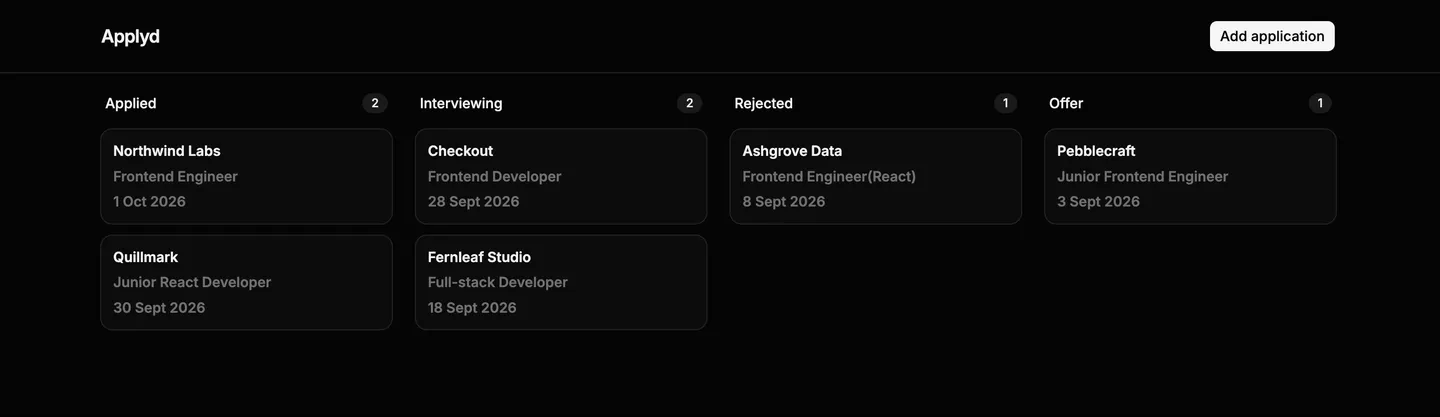
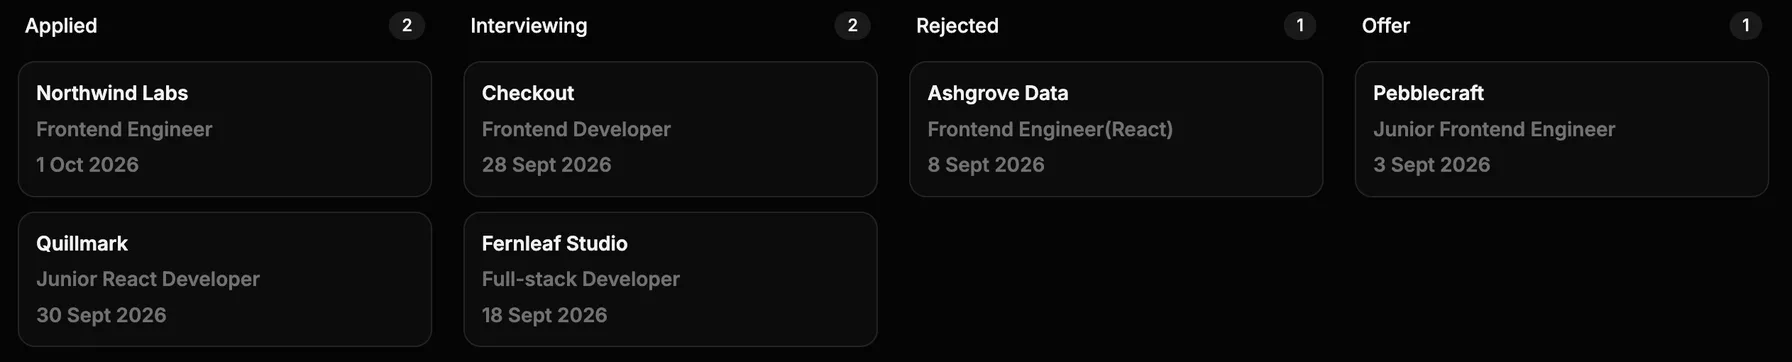
Sharpen the Applyd screenshots and add click-to-enlarge
Re-crops each figure from full-resolution PNG sources (kept out of git)
and exports them at 2x display size. Figures now stack, since the
detail crop is unreadable at half width and the form crop is portrait.
Each figure opens its uncropped screenshot in a native modal dialog.

diff --git a/src/components/ProjectEntry.tsx b/src/components/ProjectEntry.tsx
@@ -1,3 +1,4 @@
+import { useRef } from 'react'
 import type { Figure, Project } from '../content'
 import ArchitectureDiagram from './ArchitectureDiagram'
 import MarginNote from './MarginNote'
@@ -14,7 +15,6 @@ const linkStyle =
 function ProjectEntry({ project }: { project: Project }) {
   const headingId = `${project.id}-heading`
   const figures = project.figures ?? []
-  const [leadFigure, ...restFigures] = figures
   // Anything drawn above the notes (screenshots or the terminal) for the margin note to point at.
   const hasFigureAbove = figures.length > 0 || project.terminal !== undefined
 
@@ -36,16 +36,11 @@ function ProjectEntry({ project }: { project: Project }) {
         <p className="mt-5 max-w-[65ch] text-lg leading-relaxed text-ink">{project.summary}</p>
       </header>
 
-      {leadFigure && (
-        <div className="mt-8 flex flex-col gap-6">
-          <ProjectFigure figure={leadFigure} number={1} />
-          {restFigures.length > 0 && (
-            <div className="grid gap-6 md:grid-cols-2">
-              {restFigures.map((figure, i) => (
-                <ProjectFigure key={figure.src} figure={figure} number={i + 2} />
-              ))}
-            </div>
-          )}
+      {figures.length > 0 && (
+        <div className="mt-8 flex flex-col gap-8">
+          {figures.map((figure, i) => (
+            <ProjectFigure key={figure.src} figure={figure} number={i + 1} />
+          ))}
         </div>
       )}
 
@@ -107,21 +102,68 @@ function ProjectEntry({ project }: { project: Project }) {
   )
 }
 
+/** A screenshot that opens its uncropped original in a native modal <dialog>. The browser
+ *  handles Esc, focus trapping, and returning focus to the button on close. */
 function ProjectFigure({ figure, number }: { figure: Figure; number: number }) {
+  const dialogRef = useRef<HTMLDialogElement>(null)
+  // A portrait crop (the form) at full column width would be taller than the screen.
+  const isPortrait = figure.height > figure.width
+
   return (
-    <figure>
-      <img
-        src={figure.src}
-        width={figure.width}
-        height={figure.height}
-        alt={figure.alt}
-        loading="lazy"
-        decoding="async"
-        className="h-auto w-full border border-ink/15"
-      />
+    <figure className={isPortrait ? 'max-w-sm' : undefined}>
+      <button
+        type="button"
+        aria-haspopup="dialog"
+        onClick={() => dialogRef.current?.showModal()}
+        className={
+          'block w-full cursor-zoom-in border border-ink/15 transition-colors hover:border-ink/40 ' +
+          'focus-visible:outline-2 focus-visible:outline-offset-2 focus-visible:outline-accent'
+        }
+      >
+        <span className="sr-only">Enlarge: </span>
+        <img
+          src={figure.src}
+          width={figure.width}
+          height={figure.height}
+          alt={figure.alt}
+          loading="lazy"
+          decoding="async"
+          className="h-auto w-full"
+        />
+      </button>
       <figcaption className="mt-2 font-mono text-xs text-ink-muted">
         Fig. {number} — {figure.caption}
+        <span aria-hidden="true"> · Click to enlarge</span>
       </figcaption>
+
+      <dialog
+        ref={dialogRef}
+        aria-label={`Fig. ${number} — ${figure.caption}`}
+        // A click on the dialog element itself (not its content) is a click on the backdrop.
+        onClick={(event) => event.target === event.currentTarget && event.currentTarget.close()}
+        className="figure-dialog m-auto max-w-[min(94vw,1440px)] bg-paper p-3 backdrop:bg-ink/70 sm:p-4"
+      >
+        <form method="dialog" className="mb-3 flex justify-end">
+          <button
+            className={
+              'py-2 font-mono text-xs text-ink underline decoration-accent-muted underline-offset-4 ' +
+              'hover:decoration-accent focus-visible:outline-2 focus-visible:outline-accent'
+            }
+          >
+            Close
+          </button>
+        </form>
+        {/* Lazy inside a closed dialog: the full image only downloads on first open. */}
+        <img
+          src={figure.full.src}
+          width={figure.full.width}
+          height={figure.full.height}
+          alt={figure.alt}
+          loading="lazy"
+          decoding="async"
+          className="h-auto max-h-[80vh] w-auto max-w-full border border-ink/15"
+        />
+      </dialog>
     </figure>
   )
 }

diff --git a/src/content.ts b/src/content.ts
@@ -92,6 +92,8 @@ export type Figure = {
   alt: string
   /** shown after an auto-numbered "Fig. n —" */
   caption: string
+  /** the uncropped screenshot, opened by clicking the figure */
+  full: { src: string; width: number; height: number }
 }
 
 export type ArchitectureNode = {
@@ -192,30 +194,33 @@ export const projects: Project[] = [
     figures: [
       {
         src: '/job-tracker/board.webp',
-        width: 1440,
-        height: 417,
+        width: 1792,
+        height: 362,
         alt:
           'Applyd board with four status columns (Applied, Interviewing, Rejected, Offer), ' +
           'each holding application cards with company, role and date.',
         caption: 'Board view by status',
+        full: { src: '/job-tracker/board-full.webp', width: 2874, height: 1552 },
       },
       {
         src: '/job-tracker/detail.webp',
-        width: 1440,
-        height: 781,
+        width: 1792,
+        height: 798,
         alt:
           'Application detail for Fernleaf Studio: a timeline of four interview rounds, ' +
           'three passed and the final round pending.',
         caption: 'Per-application interview history',
+        full: { src: '/job-tracker/detail-full.webp', width: 2872, height: 1558 },
       },
       {
         src: '/job-tracker/validation.webp',
-        width: 1440,
-        height: 780,
+        width: 768,
+        height: 1296,
         alt:
           'Add Application form with inline errors: "Company name is required", ' +
           '"Please select a status" and "Please select a date".',
         caption: 'Form validation from the shared Zod schema',
+        full: { src: '/job-tracker/validation-full.webp', width: 2874, height: 1556 },
       },
     ],
     architecture: {

diff --git a/src/index.css b/src/index.css
@@ -33,3 +33,28 @@ h3 {
   font-family: var(--font-display);
   text-wrap: balance;
 }
+
+/* Figure lightbox: fade in/out. With reduced motion it simply appears and disappears.
+   allow-discrete keeps the dialog in the top layer until the fade-out finishes. */
+@media (prefers-reduced-motion: no-preference) {
+  .figure-dialog,
+  .figure-dialog::backdrop {
+    opacity: 0;
+    transition:
+      opacity 200ms ease-out,
+      display 200ms allow-discrete,
+      overlay 200ms allow-discrete;
+  }
+
+  .figure-dialog[open],
+  .figure-dialog[open]::backdrop {
+    opacity: 1;
+  }
+
+  @starting-style {
+    .figure-dialog[open],
+    .figure-dialog[open]::backdrop {
+      opacity: 0;
+    }
+  }
+}
